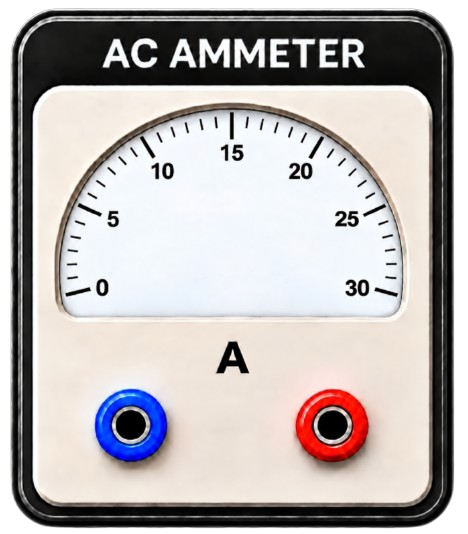
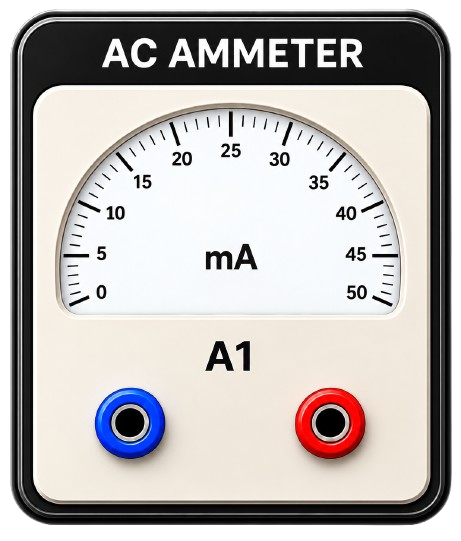
connections and meters updated

Changed region(s): [[0.0, 0.0, 1.0, 0.9888], [0.4252, 0.6292, 0.5466, 0.7191], [0.4252, 0.4494, 0.577, 0.5094]]

diff --git a/src/App.jsx b/src/App.jsx
@@ -588,54 +588,7 @@ const handlePrint = () => {
     window.print()
   }, 200) // ⚠ required (browser blocks audio otherwise)
 }
-  // const handleGenerateReport = () => {
-  //   if (readingCount < MIN_REPORT_READINGS) {
-  //     const remainingReadings = MIN_REPORT_READINGS - readingCount
-  //     setStatus(`Add ${remainingReadings} more reading(s) before generating the experiment report.`)
-  //     return
-  //   }
 
-  //   if (!calculationsVerified) {
-  //     setStatus('Correctly verify any two observation readings before generating the report.')
-  //     return
-  //   }
-
-  //   const reportWindow = generateRlcReport({
-  //     observations,
-  //     parameters: { r, l, c },
-  //     theoreticalCalculations: Object.values(calculationRows),
-  //     sessionStart,
-  //   })
-
-  //   if (!reportWindow) {
-  //     setStatus('Unable to open the report window.')
-  //     showAlert({
-  //       title: 'Popup Blocked',
-  //       description: 'Unable to open the report window. Please allow pop-ups and try again.',
-  //       type: 'error',
-  //       icon: '❌',
-  //       placement: 'center',
-  //       duration: 5000,
-  //     })
-  //     return
-  //   }
-
-  //   window.focus()
-  //   setReportGenerated(true)
-  //   setStatus('RLC Experiment report generated successfully from metrics and observations.')
-  //   scheduleAlert(() => {
-  //     showAlert({
-  //       title: 'Report Generated',
-  //       description: 'Your report has been generated successfully. Click OK to view your report.',
-  //       type: 'success',
-  //       icon: '✅',
-  //       placement: 'center',
-  //       requiresConfirmation: true,
-  //       confirmLabel: 'OK',
-  //       sound: 'genRepBtnClick',
-  //     })
-  //   }, 50)
-  // }
 const handleGenerateReport = () => {
   if (readingCount < MIN_REPORT_READINGS) {
     const remainingReadings = MIN_REPORT_READINGS - readingCount
@@ -1088,7 +1041,7 @@ const handleCheckConnections = useCallback((result, options = {}) => {
                         </p>
                         
                         <div className="instructions-connection-box">
-                          {`1-23, 2-24, 3-25, 4-26\n5-25, 6-9, 6-10, 8-17\n11-17, 12-18, 13-19, 14-20\n15-21, 16-22, 18-19, 20-21\n22-26, 26-7`}
+                          {`1-23, 2-24, 3-25, 4-26\n5-25, 6-9, 6-10, 7-18\n8-11, 11-13, 13-15, 12-17\n18-20, 14-19, 16-21, 20-22\n26-7`}
                         </div>
 
                         <p className="instructions-note"><strong>Note:</strong> If a wire is connected incorrectly, click the corresponding label number to remove the connection.</p>

diff --git a/src/utils/jsPlumbWiring.js b/src/utils/jsPlumbWiring.js
@@ -70,19 +70,17 @@ export const VALID_CONNECTION_SEQUENCE = [
   '4-endpoint', '26-endpoint',
   '5-endpoint', '25-endpoint',
   '6-endpoint', '9-endpoint',
-  '9-endpoint', '10-endpoint',
+  '6-endpoint', '10-endpoint',
   '7-endpoint', '18-endpoint',
-  '7-endpoint', '26-endpoint',
-  '8-endpoint', '17-endpoint',
-  '11-endpoint', '17-endpoint',
-  '12-endpoint', '18-endpoint',
-  '13-endpoint', '19-endpoint',
-  '14-endpoint', '20-endpoint',
-  '15-endpoint', '21-endpoint',
-  '16-endpoint', '22-endpoint',
-  '18-endpoint', '19-endpoint',
-  '20-endpoint', '21-endpoint',
-  '22-endpoint', '26-endpoint'
+  '8-endpoint', '11-endpoint',
+  '11-endpoint', '13-endpoint',
+  '13-endpoint', '15-endpoint',
+  '12-endpoint', '17-endpoint',
+  '18-endpoint', '20-endpoint',
+  '14-endpoint', '19-endpoint',
+  '16-endpoint', '21-endpoint',
+  '20-endpoint', '22-endpoint',
+  '26-endpoint', '7-endpoint'
 ]
 
 export const DEFAULT_AUTO_CONNECTIONS = [
@@ -92,19 +90,17 @@ export const DEFAULT_AUTO_CONNECTIONS = [
   ['4-endpoint', '26-endpoint'],
   ['5-endpoint', '25-endpoint'],
   ['6-endpoint', '9-endpoint'],
-  ['9-endpoint', '10-endpoint'],
+  ['6-endpoint', '10-endpoint'],
   ['7-endpoint', '18-endpoint'],
-  ['7-endpoint', '26-endpoint'],
-  ['8-endpoint', '17-endpoint'],
-  ['11-endpoint', '17-endpoint'],
-  ['12-endpoint', '18-endpoint'],
-  ['13-endpoint', '19-endpoint'],
-  ['14-endpoint', '20-endpoint'],
-  ['15-endpoint', '21-endpoint'],
-  ['16-endpoint', '22-endpoint'],
-  ['18-endpoint', '19-endpoint'],
-  ['20-endpoint', '21-endpoint'],
-  ['22-endpoint', '26-endpoint']
+  ['8-endpoint', '11-endpoint'],
+  ['11-endpoint', '13-endpoint'],
+  ['13-endpoint', '15-endpoint'],
+  ['12-endpoint', '17-endpoint'],
+  ['18-endpoint', '20-endpoint'],
+  ['14-endpoint', '19-endpoint'],
+  ['16-endpoint', '21-endpoint'],
+  ['20-endpoint', '22-endpoint'],
+  ['26-endpoint', '7-endpoint']
 ]
 
 // =================================================================

diff --git a/src/App.css b/src/App.css
@@ -10,6 +10,9 @@
   --eq-grid-rows: 4;
   --eq-grid-gap-x: 12px;
   --eq-grid-gap-y: 16px;
+  /* V1 is the reference size for every voltmeter and ammeter. */
+  --standard-meter-width: 170px;
+  --standard-meter-height: 200px;
   /* === NEW: FORMULA MODAL VARIABLES === */
   --formula-font: "Latin Modern Math", "Cambria Math", "Times New Roman", serif;
   --formula-bg: #ffffff;
@@ -2840,7 +2843,7 @@ Base modal container
   margin-right: 1px; 
   
   /* 2. RESIZE: Base container configuration */
-  width: 170px; 
+  width: var(--standard-meter-width);
   height: auto;
   padding-bottom: 0;
 }
@@ -2849,7 +2852,8 @@ Base modal container
 .ammeter__dial {
   display: block;
   width: 100%;
-  height: auto;
+  height: var(--standard-meter-height);
+  object-fit: fill;
   
   position: relative;
   transform: scaleX(var(--dial-scale-x)) scaleY(var(--dial-scale-y));
@@ -2924,7 +2928,7 @@ Base modal container
 
 /* V1 (Top Row) */
 .voltmeter--V1 {
-  width: 170px;
+  width: var(--standard-meter-width);
   height: 110px;
   position: relative;
   right: 270px;
@@ -2937,7 +2941,7 @@ Base modal container
 
 /* V2 (Top Right) */
 .voltmeter--V2 {
-  width: 170px;
+  width: var(--standard-meter-width);
   height: 110px;
   position: relative;
   top: -285px;
@@ -2951,7 +2955,7 @@ Base modal container
 
 /* V3 (Middle Right) */
 .voltmeter--V3 {
-  width: 170px;
+  width: var(--standard-meter-width);
   height: 110px;
   position: relative;
   top: -150px;
@@ -2965,7 +2969,7 @@ Base modal container
 
 /* V4 (Bottom Right) */
 .voltmeter--V4 {
-  width: 170px;
+  width: var(--standard-meter-width);
   height: 110px;
   position: relative;
   top: 10px;
@@ -2980,8 +2984,8 @@ Base modal container
 .voltmeter__image {
   display: block;
   width: 100%;
-  height: auto;
-  object-fit: contain;
+  height: var(--standard-meter-height);
+  object-fit: fill;
 }
 
 /* ==========================================================================

diff --git a/src/components/Voltmeter.jsx b/src/components/Voltmeter.jsx
@@ -1,15 +1,22 @@
 import v1Img from '../assets/V1.png';
-import v2Img from '../assets/V2.png';
-import v3Img from '../assets/V3.png';
-import v4Img from '../assets/V4.png';
+import a2Img from '../assets/A2.png';
+import a3Img from '../assets/A3.png';
+import a4Img from '../assets/A4.png';
 import needleImg from '../assets/needle.png';
 import '../App.css';
 
 const voltmeterImages = {
   V1: v1Img,
-  V2: v2Img,
-  V3: v3Img,
-  V4: v4Img,
+  V2: a2Img,
+  V3: a3Img,
+  V4: a4Img,
+};
+
+const meterAccessibleNames = {
+  V1: 'V1 AC voltmeter',
+  V2: 'A2 AC ammeter',
+  V3: 'A3 AC ammeter',
+  V4: 'A4 AC ammeter',
 };
 
 import { DIAL_GEOMETRY } from '../utils/rlcMeterCalibration.js';
@@ -97,7 +104,7 @@ const Voltmeter = ({ label = "V1", value = 0, angleDeg = null }) => {
       >
         <img
           src={voltmeterImages[label]}
-          alt={`${label} AC voltmeter`}
+          alt={meterAccessibleNames[label] || `${label} analog meter`}
           className="voltmeter__image"
         />
 
